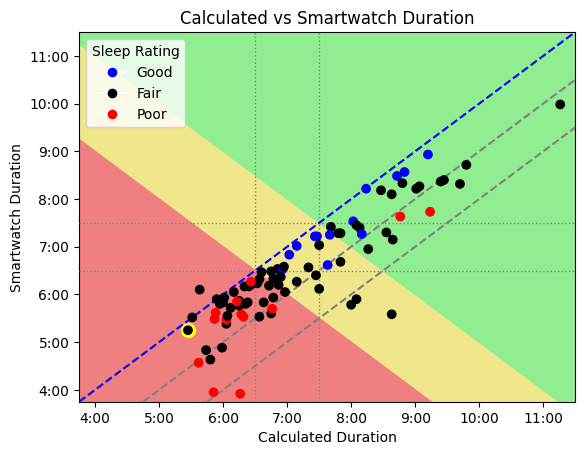
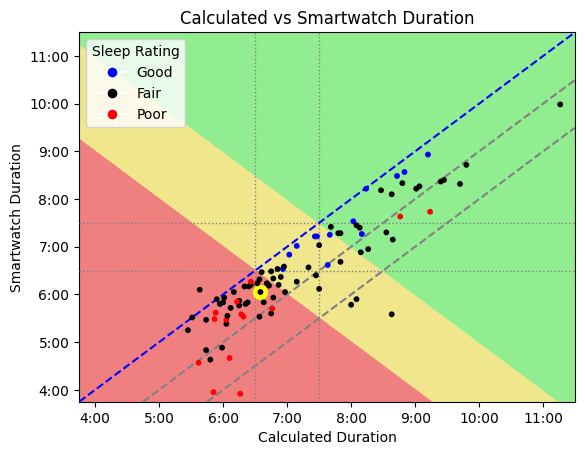
Minor plot adjustments

diff --git a/make_plots.py b/make_plots.py
@@ -147,7 +147,7 @@ def plot_sleep(filename="sleep.csv"):
     # Halo around most recent sleep session
     most_recent = df_notna.iloc[-1]
     ax.scatter(most_recent['duration'], most_recent['duration_smartwatch'], zorder=4, c='#FFFF14', s=100)
-    ax.scatter(df_notna['duration'], df_notna['duration_smartwatch'], zorder=5, c=df_notna['rating_smartwatch'].map(colors))
+    ax.scatter(df_notna['duration'], df_notna['duration_smartwatch'], zorder=5, c=df_notna['rating_smartwatch'].map(colors), s=10)
     plt.xlabel('Calculated Duration')
     plt.ylabel('Smartwatch Duration')
     ax.set_xlim(ymin, ymax)
@@ -252,10 +252,10 @@ def plot_sleep(filename="sleep.csv"):
             color=colors,
             edgecolor='black',
             alpha=0.5)
-    plt.xlabel('Score')
+    plt.xlabel('Score according to Smartwatch')
     plt.ylabel('Frequency')
-    plt.title('Smartwatch Score Histogram')
-    plt.savefig('smartwatch_score_histogram.png',  bbox_inches='tight')
+    plt.title('Sleep Score Histogram')
+    plt.savefig('sleep_score_histogram.png',  bbox_inches='tight')
     plt.clf()
 
 
